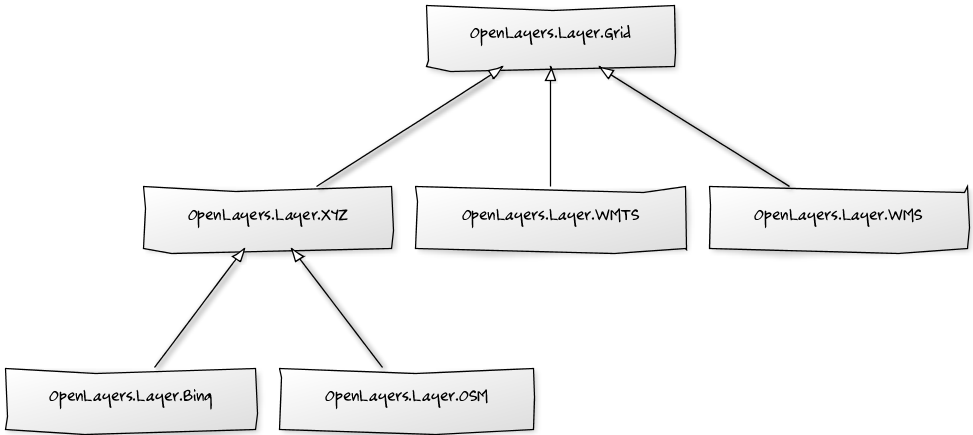
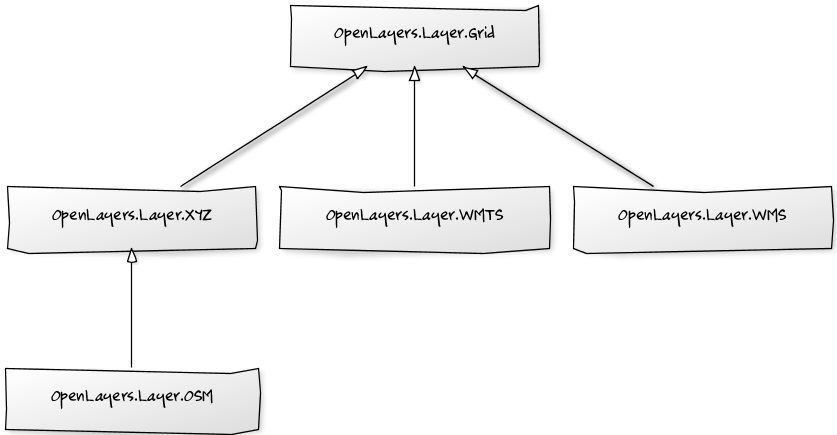
Working on

Changed region(s): [[0.0, 0.0, 1.0, 1.0], [0.2796, 0.2391, 0.3728, 0.3586], [0.3417, 0.6874, 0.3728, 0.777]]

diff --git a/index.html b/index.html
@@ -195,8 +195,8 @@ map.zoomToMaxExtent();
             <h2>Base Layers and Overlays</h2>
             <h3>Code Example</h3>
 
-            <p>This example shows a map with a couple of WMS layers, one acting as base layer
-                and the other as overlay:</p>
+            <p>This example shows a map with a couple of WMS layers, one acting as <span class="spotlight">base layer</span>
+                and the other as <span class="spotlight">overlay</span>:</p>
 
             <div class="samplecode">
                 <script type="codemirror" data-selector="#layers_example_code">
@@ -235,7 +235,7 @@ map.addControl(new OpenLayers.Control.LayerSwitcher());
 map.setCenter(new OpenLayers.LonLat(-90,40), 4);
 
 // Change the nexrad layer opacity
-nexrad.setOpacity(0.3);
+nexrad.setOpacity(0.5);
                 </textarea>
             </div>
 
@@ -246,10 +246,66 @@ nexrad.setOpacity(0.3);
         </section>
 
         <section class="slide">
-            <h2>Types of layers</h2>
+            <h2>Base Layers and Overlays</h2>
+            <h3>Code Example</h3>
 
-            <p>There are two main types of layers: <span class="spotlight">Raster</span> (imagery) and
-                <span class="spotlight">Vector</span> (features).</p>
+            <p>This example shows a map working in <span class="olproperty"><code>allOverlays</code></span> mode:</p>
+
+            <div class="samplecode">
+                <script type="codemirror" data-selector="#layers2_example_code">
+                    if(P.layers2_example) P.layers2_example.destroy();
+                </script>
+                <script type="codemirror/cleanup" data-selector="#layers2_example_code">
+                    P.layers2_example = map;
+                </script>
+                <textarea id="layers2_example_code" class="code" mode="javascript" style="display: none;" runnable="true" theme="xq-dark" globals="OpenLayers,P">
+// Create a map and add OSM raster layer as the base layer
+var map = new OpenLayers.Map("layers2_example", {
+    allOverlays: true
+});
+
+// Add a WMS layer
+var wms = new OpenLayers.Layer.WMS("WMS Base", "http://vmap0.tiles.osgeo.org/wms/vmap0",
+{
+    layers: 'basic'
+});
+
+// Add Nexrad WMS layer
+var nexrad = new OpenLayers.Layer.WMS("Nexrad", "http://mesonet.agron.iastate.edu/cgi-bin/wms/nexrad/n0r.cgi",
+{
+    layers: "nexrad-n0r",
+    transparent: true,
+    format: 'image/png'
+});
+
+map.addLayers([wms, nexrad]);
+
+// Add some controls
+map.addControl(new OpenLayers.Control.LayerSwitcher());
+
+// Set the center of the view
+map.setCenter(new OpenLayers.LonLat(-90,40), 4);
+
+// Change the nexrad layer opacity
+nexrad.setOpacity(0.5);
+                </textarea>
+            </div>
+
+            <div class="mapwrapper">
+                <div id="layers2_example"></div>
+            </div>
+
+        </section>
+
+
+        <section class="slide">
+            <h2>Layers' Hierarchy</h2>
+
+            <p>There are two main types of layers:</p>
+            <ul>
+                <li><span class="spotlight">Raster</span> (imagery) and</li>
+                <li><span class="spotlight">Vector</span> (features).</li>
+            </ul>
 
             <!-- yUML code
             [Layer]^-[Raster Layer]
@@ -274,33 +330,68 @@ nexrad.setOpacity(0.3);
             <h2>Raster layers</h2>
 
             <ul>
-                <li><span class="spotlight">Raster</span> layers shows imagery from different service provider: 
+                <li><span class="spotlight">Raster</span> layers shows imagery from different service providers: 
                     Google, Bing, a WMS server, OSM, etc</li>
                 <li>All <span class="spotlight">Raster</span> layers inherits from 
                     the base class <span class="olclass">OpenLayers.Layer</span></li>
-                <li>The <span class="olclass">OpenLayers.Layer.Grid</span> class decomposes the map viewport in 
-                    a lattice of tiles and offers the basic functionalities for the rest of layers</li>
-                <li>The <span class="olclass">OpenLayers.Layer.Google</span> class is a bit... special and
-                does not inherits from <span class="olclass">OpenLayers.Layer.Grid</span></li>
             </ul>
 
             <!--
+            [OpenLayers.Layer]^-[OpenLayers.Layer.Image]
             [OpenLayers.Layer]^-[OpenLayers.Layer.HTTPRequest]
             [OpenLayers.Layer.HTTPRequest]^-[OpenLayers.Layer.Grid]
             [OpenLayers.Layer.Grid]^-[OpenLayers.Layer.WMS]
             [OpenLayers.Layer.Grid]^-[OpenLayers.Layer.WMTS]
             [OpenLayers.Layer.Grid]^-[OpenLayers.Layer.XYZ]
             [OpenLayers.Layer.XYZ]^-[OpenLayers.Layer.OSM]
-            [OpenLayers.Layer.XYZ]^-[OpenLayers.Layer.Bing]
             -->
+
+            <div class="slide">
+                <table>
+                    <tr>
+                        <td>
+                            <img src="images/raster_hierarchy_01.png" alt="OpenLayers raster layers hierarchy" />
+                        </td>
+                        <td>
+                            <img src="images/raster_hierarchy_02.png" alt="OpenLayers raster layers hierarchy" />            
+                        </td>
+                    </tr>
+                </table>
+            </div>
+
+            <div class="slide">
+                <ul>
+                    <li>The <span class="olclass">OpenLayers.Layer.Grid</span> class decomposes the map viewport in 
+                        a lattice of tiles and offers the basic functionalities for the rest of layers</li>
+                    <li>The <span class="olclass">OpenLayers.Layer.Image</span> class allows to create a layer
+                        from s single image file</li>
+                </ul>
+            </div>
+
+        </section>
+
+        <section class="slide">
+            <h2>Raster layers</h2>
 
             <table>
                 <tr>
                     <td>
-                        <img src="images/raster_hierarchy_01.png" alt="OpenLayers raster layers hierarchy" />
+                        <h4>Google Maps</h4>
+                        <img src="images/raster_layer_gmaps.png" alt="OpenLayers raster Google layer" />
                     </td>
                     <td>
-                        <img src="images/raster_hierarchy_02.png" alt="OpenLayers raster layers hierarchy" />            
+                        <h4>Bing</h4>
+                        <img src="images/raster_layer_bing.png" alt="OpenLayers raster Bing layer" />            
+                    </td>
+                </tr>
+                <tr>
+                    <td>
+                        <h4>OpenStreetMap</h4>
+                        <img src="images/raster_layer_osm.png" alt="OpenLayers raster OSM layer" />
+                    </td>
+                    <td>
+                        <h4>WMS servers</h4>
+                        <img src="images/raster_layer_wms.png" alt="OpenLayers raster WMS layer" />            
                     </td>
                 </tr>
             </table>
@@ -309,6 +400,8 @@ nexrad.setOpacity(0.3);
 
         <section class="slide">
             <h2>Raster layers</h2>
+            <h3>Code Example</h3>
+
             <p>Example working with WMS projection and opacity</p>
             <p>Add maps from opengeo and osgeo and sentences to play with projection, opacity, layer name, etc.</p>
 
@@ -337,6 +430,11 @@ nexrad.setOpacity(0.3);
 
         </section>
 
+        <section class="slide">
+            <h2>Sample Vector layers</h2>
+
+            <p>PUT HERE !!!</p>
+        </section>
 
         <section class="slide" id="themes">
             <h2>Style Themes</h2>

diff --git a/deckjs/themes/style/olpresentation.css b/deckjs/themes/style/olpresentation.css
@@ -1,7 +1,7 @@
 @charset "UTF-8";
 .deck-container {
     font-family: "Lucida Grande", "Trebuchet MS", Verdana, sans-serif;
-    font-size: 1.25em;
+    font-size: 1.50em;
 
     background: rgb(215, 215, 215);
     background: -o-radial-gradient(rgb(240, 240, 240), rgb(190, 190, 190));
@@ -230,11 +230,13 @@
     -webkit-box-sizing: padding-box;
     -moz-box-sizing: padding-box;
     box-sizing: padding-box;
-    width: 80%;
-    margin: 5% 10%;
+    width: 90%;
+    margin: 2.5% 5%;
 }
 
-
+/* 
+OL Presentacion 
+*/
 .openlayers {
     color: #0055cc;
     text-shadow: #aaa 0px 1px 0px,rgba(0, 0, 0, 0.2) 0 28px 26px;
